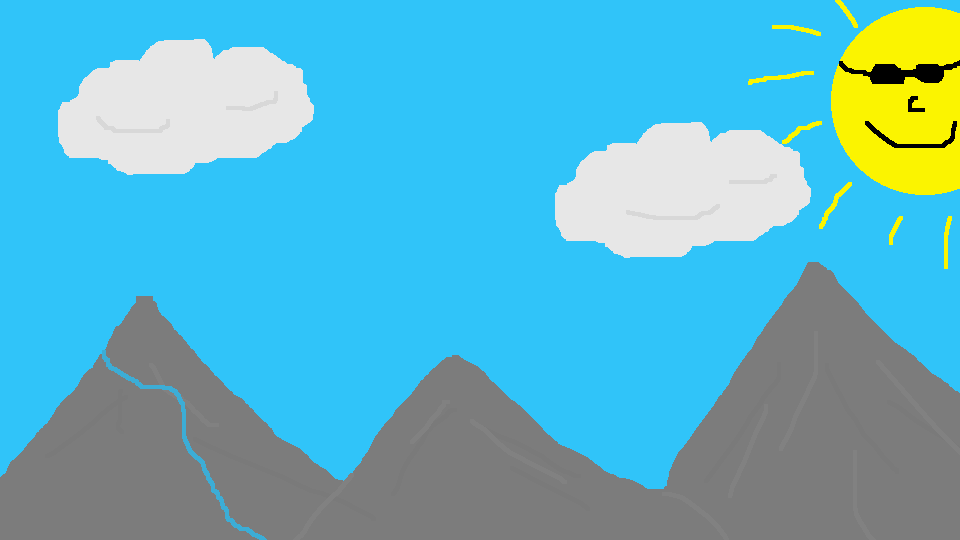
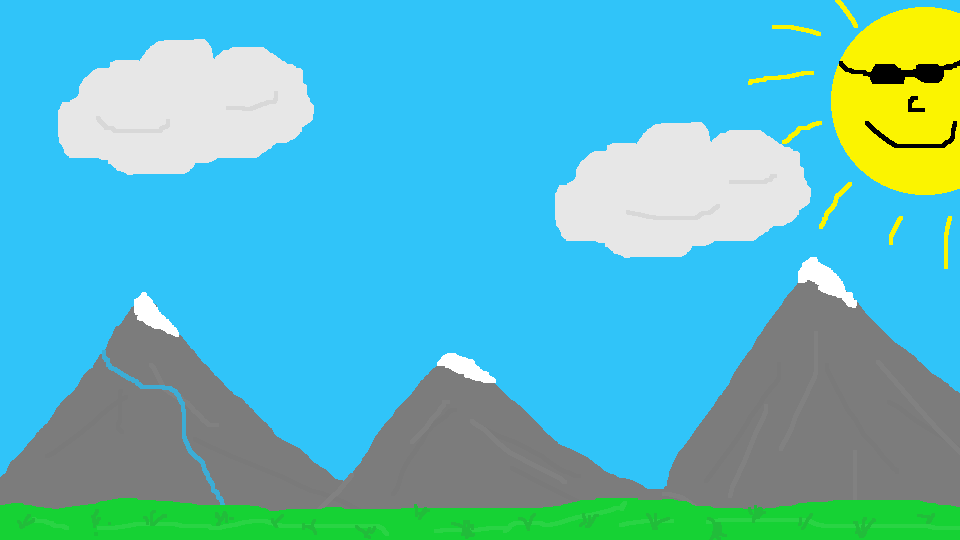
add ground into background image

diff --git a/src/platformer/util/Constants.java b/src/platformer/util/Constants.java
@@ -16,20 +16,22 @@ public final class Constants {
     public static final int GROUND_HEIGHT = 20;
 
     // images
-    public static final Image PLAYER_RIGHT_IMAGE = new Image("platformer/assets/player/standing_right.png", 100, 100, false, false);
-    public static final Image PLAYER_LEFT_IMAGE = new Image("platformer/assets/player/standing_left.png", 100, 100, false, false);
-    public static final Image PLAYER_LEFT_CROUCH_IMAGE = new Image("platformer/assets/player/crouch_left.png", 68, 68, false, false);
-    public static final Image PLAYER_RIGHT_CROUCH_IMAGE = new Image("platformer/assets/player/crouch_right.png", 68, 68, false, false);
+    //public static final Image PLAYER_STANDING_IMAGE = new Image("platformer/assets/player/standing_right.png", 100, 100, false, false);
+    //public static final Image PLAYER_CROUCHING_IMAGE = new Image("platformer/assets/player/crouch_right.png", 68, 68, false, false);
+    public static final Image PLAYER_STANDING_IMAGE = new Image("platformer/assets/player/giraf_stand.png", 100, 100, false, false);
+    public static final Image PLAYER_CROUCHING_IMAGE = new Image("platformer/assets/player/giraf_crouch.png", 100, 68, false, false);
+
     public static final Image MAIN_SCREEN_BACKGROUND = new Image("platformer/assets/menu/menu_background.png", SCREEN_WIDTH, SCREEN_HEIGHT, false, false);
-    public static final Image AIR_ENEMY_IMGAGE = new Image("platformer/assets/enemies/AirEnemy.png", 60, 20, false, false);
-    public static final Image GROUND_ENEMY_IMAGE = new Image("platformer/assets/enemies/GroundEnemy.png", 60, 30, false, false);
+    public static final Image AIR_ENEMY_IMGAGE = new Image("platformer/assets/enemies/AirEnemy.png", 120, 40, false, false);
+
+    public static final Image GROUND_ENEMY_IMAGE = new Image("platformer/assets/enemies/GroundEnemy.png", 90, 45, false, false);
     public static final Image SKY_IMAGE = new Image("platformer/assets/Sky.png", 960, 540, false, false);
 
     // player dimensions
-    public static final int PLAYER_WIDTH = (int)PLAYER_LEFT_IMAGE.getWidth();
-    public static final int PLAYER_HEIGHT = (int)PLAYER_LEFT_IMAGE.getHeight();
-    public static final int PLAYER_CROUCH_HEIGHT = (int)PLAYER_LEFT_CROUCH_IMAGE.getHeight();
-    public static final int PLAYER_CROUCH_WIDTH = (int)PLAYER_LEFT_CROUCH_IMAGE.getWidth();
+    public static final int PLAYER_WIDTH = (int) PLAYER_STANDING_IMAGE.getWidth();
+    public static final int PLAYER_HEIGHT = (int) PLAYER_STANDING_IMAGE.getHeight();
+    public static final int PLAYER_CROUCH_HEIGHT = (int) PLAYER_CROUCHING_IMAGE.getHeight();
+    public static final int PLAYER_CROUCH_WIDTH = (int) PLAYER_CROUCHING_IMAGE.getWidth();
     public static final int PLAYER_START_X = 15;
     public static final int PLAYER_START_Y = GROUND_HEIGHT + PLAYER_HEIGHT;
 

diff --git a/src/platformer/entities/Player.java b/src/platformer/entities/Player.java
@@ -9,20 +9,18 @@ import java.util.ArrayList;
 import static platformer.util.Constants.*;
 
 public class Player extends Entity implements HasHitbox {
-    private boolean facingLeft;
     private boolean allowNewJump, jumping, crouching;
     private Rectangle crouchingHitbox = new Rectangle(PLAYER_CROUCH_WIDTH - PLAYER_CROUCH_WIDTH/3, PLAYER_CROUCH_HEIGHT);
-    private double gravity = .6;
+    private double gravity = .5;
     private double yVel = JUMP_VELOCITY;
     private boolean hit;
     private long lastMove = -1;
     private long lastJumpdate = -1;
 
     public Player(int x, int y) {
-        super(x, y, PLAYER_WIDTH/2, PLAYER_HEIGHT, PLAYER_RIGHT_IMAGE);
+        super(x, y, PLAYER_WIDTH/2, PLAYER_HEIGHT, PLAYER_STANDING_IMAGE);
         this.x = x;
         this.y = y;
-        facingLeft = false;
         allowNewJump = false;
         jumping = false;
         crouching = false;
@@ -133,13 +131,10 @@ public class Player extends Entity implements HasHitbox {
      */
     @Override
     public void draw(GraphicsContext gc) {
-        if (facingLeft) {
-            if(crouching) gc.drawImage(PLAYER_LEFT_CROUCH_IMAGE, x, gc.getCanvas().getHeight() - y);
-            else gc.drawImage(PLAYER_LEFT_IMAGE, x, gc.getCanvas().getHeight() - y);
-        } else {
-            if(crouching) gc.drawImage(PLAYER_RIGHT_CROUCH_IMAGE, x, gc.getCanvas().getHeight() - y);
-            else gc.drawImage(PLAYER_RIGHT_IMAGE, x, gc.getCanvas().getHeight() - y);
-        }
+        if(crouching)
+            gc.drawImage(PLAYER_CROUCHING_IMAGE, x, gc.getCanvas().getHeight() - y);
+        else
+            gc.drawImage(PLAYER_STANDING_IMAGE, x, gc.getCanvas().getHeight() - y);
         if(SHOW_HITBOXES) {
             gc.setFill(Color.GREENYELLOW);
             gc.setGlobalAlpha(.5);

diff --git a/src/platformer/scenes/GameScene.java b/src/platformer/scenes/GameScene.java
@@ -116,8 +116,8 @@ public class GameScene extends Scene{
         game_gc.drawImage(SKY_IMAGE, 0, 0);
 
         // Ground
-        game_gc.setFill(Color.GREEN);
-        game_gc.fillRect(0, SCREEN_HEIGHT - GROUND_HEIGHT, SCREEN_WIDTH, SCREEN_HEIGHT - GROUND_HEIGHT);
+        //game_gc.setFill(Color.GREEN);
+        //game_gc.fillRect(0, SCREEN_HEIGHT - GROUND_HEIGHT, SCREEN_WIDTH, SCREEN_HEIGHT - GROUND_HEIGHT);
     }
 
     public void resetGame() {

diff --git a/src/platformer/entities/AirEnemy.java b/src/platformer/entities/AirEnemy.java
@@ -4,7 +4,7 @@ import static platformer.util.Constants.*;
 
 public class AirEnemy extends Enemy {
     public AirEnemy() {
-        super(SCREEN_WIDTH, (GROUND_HEIGHT + PLAYER_HEIGHT - 10), 60, 20, AIR_ENEMY_IMGAGE);
+        super(SCREEN_WIDTH, (GROUND_HEIGHT + PLAYER_HEIGHT + 35), 90, 40, AIR_ENEMY_IMGAGE);
 
     }
 }

diff --git a/src/platformer/entities/GroundEnemy.java b/src/platformer/entities/GroundEnemy.java
@@ -4,6 +4,6 @@ import static platformer.util.Constants.*;
 
 public class GroundEnemy extends Enemy {
     public GroundEnemy() {
-        super(SCREEN_WIDTH, GROUND_HEIGHT + 30, 60, 30, GROUND_ENEMY_IMAGE);
+        super(SCREEN_WIDTH, GROUND_HEIGHT + 45, 90, 45, GROUND_ENEMY_IMAGE);
     }
 }

diff --git a/src/platformer/Main.java b/src/platformer/Main.java
@@ -17,6 +17,7 @@ public class Main extends Application {
 
     public void start(Stage theStage) {
         theStage.setTitle("Platformer Test");
+        theStage.setResizable(false);
         Group root = new Group();
 
         // Initialize Canvas
